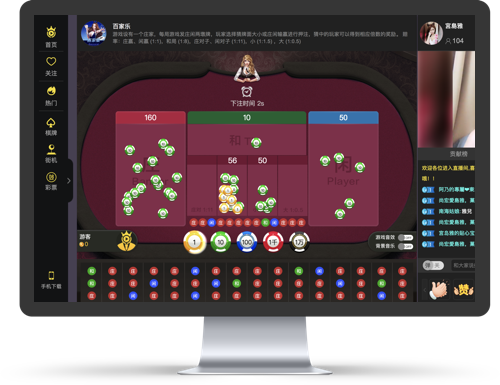
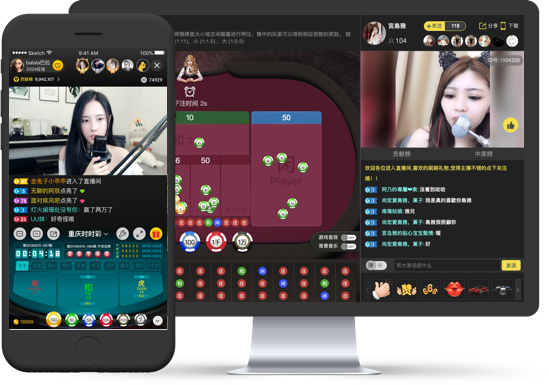
图片

diff --git a/pages/home/index.vue b/pages/home/index.vue
@@ -19,7 +19,7 @@
                 </div>
                 <div class="card-info-right img-content" >
                   <img class="pc revealOnScroll" data-animation="fadeInRight" data-timeout="0" src="../../assets/images/home/sy_dn_1.png" alt="">
-                  <img class="mobeil revealOnScroll" data-animation="fadeInRight" data-timeout="0" src="../../assets/images/home/sy_sj_1.png" alt="">
+                  <!-- <img class="mobeil revealOnScroll" data-animation="fadeInRight" data-timeout="0" src="../../assets/images/home/sy_sj_1.png" alt=""> -->
                 </div>
               </div>
             </div>
